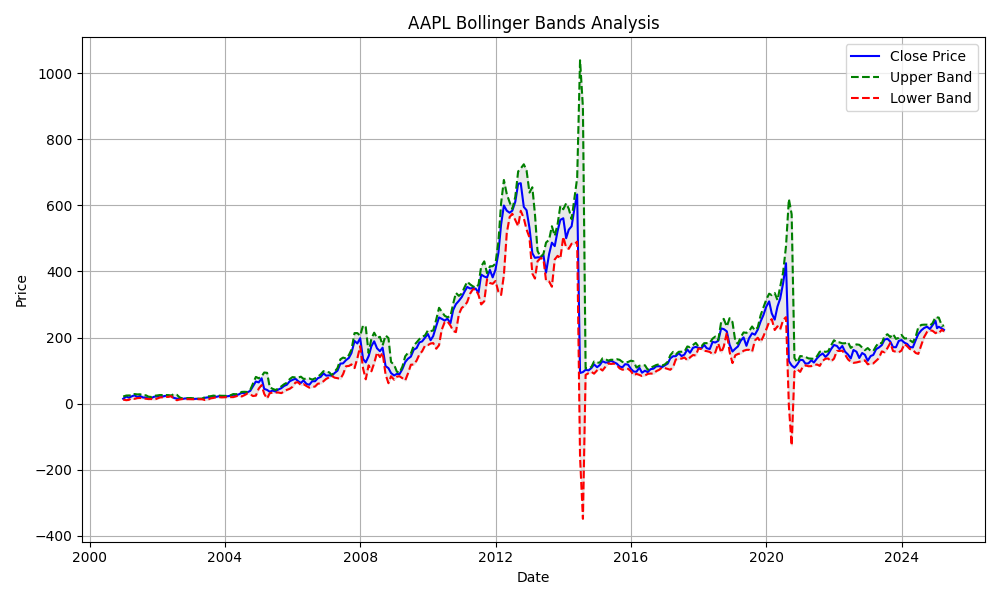
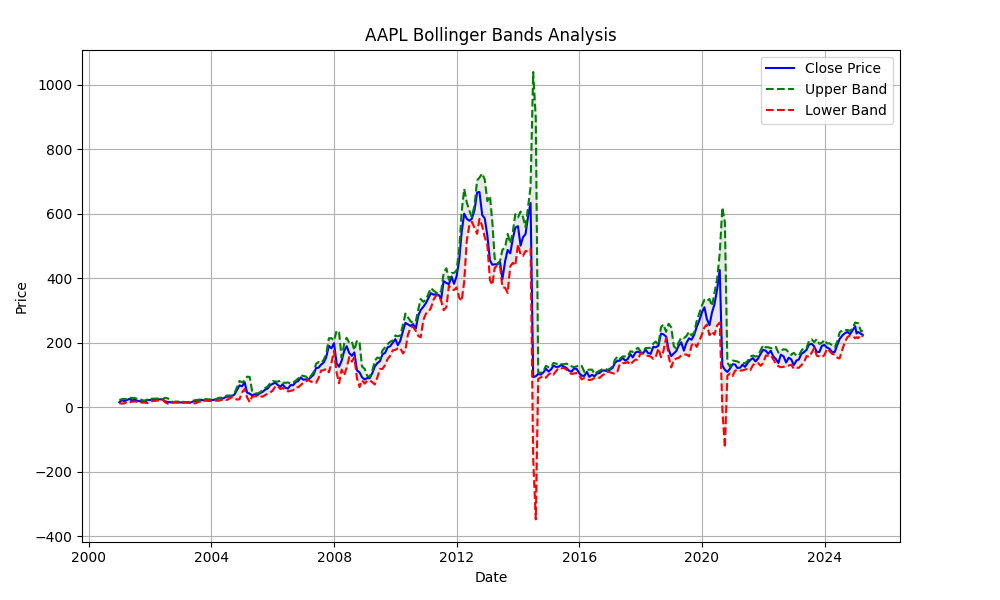
local dev

diff --git a/Client/src/Components/Dashboard.jsx b/Client/src/Components/Dashboard.jsx
@@ -80,11 +80,14 @@ export function Dashboard({ selectedStock }) {
       }
 
       setPlotData(response.data); // Store the fetched data
+      console.log("Plotly Data preview", response.data.data);
+      console.log("Plotly layout preview", response.data.layout);
       setFlaskLoading(false);
     } catch (err) {
       console.error("Error fetching Plotly data from S3:", err);
       setFlaskError(err.message || "Error fetching plot data from S3");
       setFlaskLoading(false);
+      console.log("flaskLoading:", flaskLoading);
     }
   };
 
@@ -120,24 +123,21 @@ console.log("S3 Bucket URL:", plotUrl);
       </div>
       <div className="dashboard-content grid grid-cols-2 gap-4 ">
            <div className="linegraph plot border-2 flex">
-  {flaskLoading ? (
-    <div>Loading...</div>
-  ) : plotData?.data && plotData?.layout ? (
-    <Plot
-      data={plotData.data} // Use data from S3
-      layout={{
-        ...plotData.layout,
-        autosize: true,
-        width: undefined,
-        height: 400,
-        responsive: true,
-        margin: { l: 50, r: 50, t: 50, b: 50 },
-      }}
-      config={{ responsive: true }}
-      style={{ width: "100%", maxWidth: "600px", margin: "auto" }}
-    />
+  {plotData?.data?.length && plotData?.layout ? (
+  <Plot
+    data={plotData.data}
+    layout={{
+      ...plotData.layout,
+      autosize: true,
+      height: 400,
+      margin: { l: 50, r: 50, t: 50, b: 50 },
+    }}
+    config={{ responsive: true }}
+    useResizeHandler={true}
+    style={{ width: "100%", height: "100%", maxWidth: "600px", margin: "auto" }}
+  />
   ) : (
-    <div>Error loading chart data</div>
+    <div>loading chart data</div>
   )}
 </div>
        
